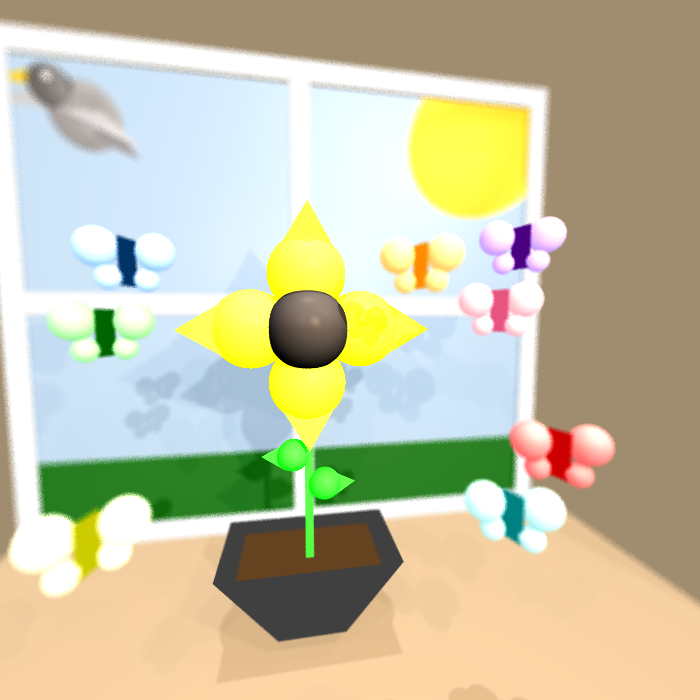
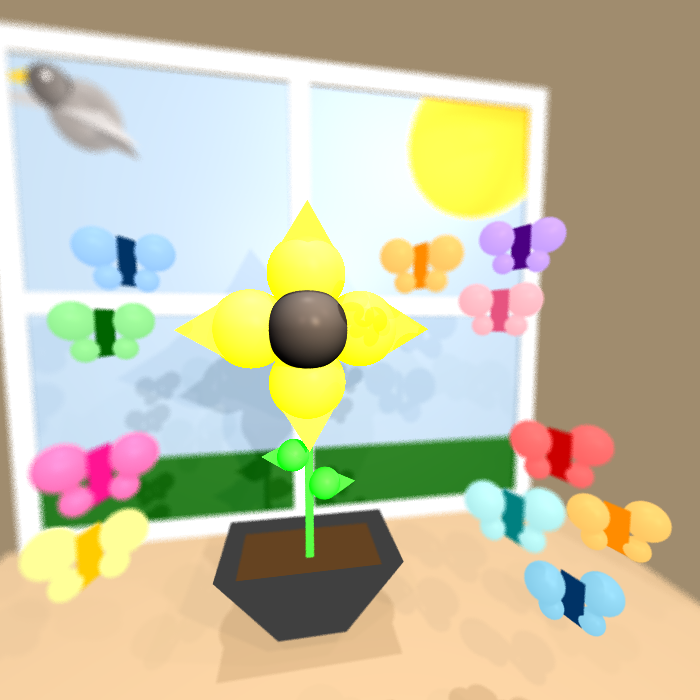
Fixing110

diff --git a/unittests/renderer/Mp2Tests.java b/unittests/renderer/Mp2Tests.java
@@ -405,7 +405,79 @@ class Mp2Tests {
                     .setMaterial(new Material().setKd(0.1).setKs(0.1).setShininess(20)),
             new Sphere( 0.5,new Point(7.3, -8.2, -8))
                     .setEmission(new Color(175, 238, 238))
-                    .setMaterial(new Material().setKd(0.1).setKs(0.1).setShininess(20))
+                    .setMaterial(new Material().setKd(0.1).setKs(0.1).setShininess(20)),
+
+            //The orange  butterfly
+            new Polygon( new Point(13, -7.5, -7),
+                    new Point(12.7, -7.5, -8),
+                    new Point(12.7, -9.5, -8),
+                    new Point(13, -9.5, -7))
+                    .setEmission(new Color(255, 140, 0)),
+            new Sphere( 0.8,new Point(13.8, -8, -7))
+                    .setEmission(new Color(255, 200, 100))
+                    .setMaterial(new Material().setKd(0.1).setKs(0.1).setShininess(20)),
+            new Sphere( 0.8,new Point(11.9, -8, -8))
+                    .setEmission(new Color(255, 200, 100))
+                    .setMaterial(new Material().setKd(0.1).setKs(0.1).setShininess(20)),
+            new Sphere(0.5,new Point(13.4, -9.2, -7))
+                    .setEmission(new Color(255, 200, 100))
+                    .setMaterial(new Material().setKd(0.1).setKs(0.1).setShininess(20)),
+            new Sphere( 0.5,new Point(12.3, -9.2, -8))
+                    .setEmission(new Color(255, 200, 100))
+                    .setMaterial(new Material().setKd(0.1).setKs(0.1).setShininess(20)),
+
+            //The strong pink butterfly
+            new Polygon( new Point(-8, -4, -8),
+                    new Point(-7.7, -4, -9),
+                    new Point(-7.7, -6, -9),
+                    new Point(-8, -6, -8))
+                    .setEmission(new Color(255, 20, 147)),
+            new Sphere( 0.8,new Point(-8.8, -4.5, -8))
+                    .setEmission(new Color(255, 105, 180))
+                    .setMaterial(new Material().setKd(0.2).setKs(0.2).setShininess(20)),
+            new Sphere( 0.8,new Point(-6.9, -4.5, -9))
+                    .setEmission(new Color(255, 105, 180))
+                    .setMaterial(new Material().setKd(0.2).setKs(0.2).setShininess(20)),
+            new Sphere(0.5,new Point(-8.4, -5.7, -8))
+                    .setEmission(new Color(255, 105, 180))
+                    .setMaterial(new Material().setKd(0.2).setKs(0.2).setShininess(20)),
+            new Sphere( 0.5,new Point(-7.3, -5.7, -9))
+                    .setEmission(new Color(255, 105, 180))
+                    .setMaterial(new Material().setKd(0.2).setKs(0.2).setShininess(20)),
+
+            //The light blue  butterfly
+            new Polygon( new Point(11, -10.5, -7),
+                    new Point(10.7, -10.5, -8),
+                    new Point(10.7, -12.5, -8),
+                    new Point(11, -12.5, -7))
+                    .setEmission(new Color(0, 51, 102)),
+            new Sphere( 0.8,new Point(11.8, -11, -7))
+                    .setEmission(new Color(135, 206, 235))
+                    .setMaterial(new Material().setKd(0.1).setKs(0.1).setShininess(20)),
+            new Sphere( 0.8,new Point(9.9, -11, -8))
+                    .setEmission(new Color(135, 206, 235))
+                    .setMaterial(new Material().setKd(0.1).setKs(0.1).setShininess(20)),
+            new Sphere(0.5,new Point(11.4, -12.2, -7))
+                    .setEmission(new Color(135, 206, 235))
+                    .setMaterial(new Material().setKd(0.1).setKs(0.1).setShininess(20)),
+            new Sphere( 0.5,new Point(10.3, -12.2, -8))
+                    .setEmission(new Color(135, 206, 235))
+                    .setMaterial(new Material().setKd(0.1).setKs(0.1).setShininess(20)),
+
+            //The light yellow  butterfly
+            new Polygon( new Point(-8.5, -7, -8),
+                    new Point(-8.2, -7, -9),
+                    new Point(-8.2, -9, -9),
+                    new Point(-8.5, -9, -8))
+                    .setEmission(new Color(255, 204, 0)),
+            new Sphere( 0.8,new Point(-9.3, -7.5, -8))
+                    .setEmission(new Color(255, 255, 153)),
+            new Sphere( 0.8,new Point(-7.4, -7.5, -9))
+                    .setEmission(new Color(255, 255, 153)),
+            new Sphere(0.5,new Point(-8.9, -8.7, -8))
+                    .setEmission(new Color(255, 255, 153)),
+            new Sphere( 0.5,new Point(-7.8, -8.7, -9))
+                    .setEmission(new Color(255, 255, 153))
     );
 
     /**The light sources of the scene
@@ -437,7 +509,7 @@ class Mp2Tests {
      * It uses BVH for optimization.
      */
     @Test
-    void test1(){//Time: 40 sec 586 ms
+    void test1(){//Time: 51 sec 536 ms
         // Create a camera with a specific location and direction
         Camera cam1 = Camera.getBuilder()
                 .setLocation(new Point(-1, 0.5, 5))
@@ -462,7 +534,7 @@ class Mp2Tests {
      * It uses BVH for optimization.
      */
     @Test
-    void test2(){//Time: 2 min 55 sec
+    void test2(){//Time: 3 min 38 sec
         // Create a camera with a specific location and direction
         Camera cam1 = Camera.getBuilder()
                 .setLocation(new Point(-1, 0.5, 5))
@@ -485,7 +557,7 @@ class Mp2Tests {
      * It doesn't use BVH for optimization.
      */
     @Test
-    void test3(){//Time: 1 min 5 sec
+    void test3(){//Time: 1 min 52 sec
         // Create a camera with a specific location and direction
         Camera cam1 = Camera.getBuilder()
                 .setLocation(new Point(-1, 0.5, 5))
@@ -508,7 +580,7 @@ class Mp2Tests {
      * It doesn't use BVH for optimization.
      */
     @Test
-    void test4(){//Time: 4 min 51 sec
+    void test4(){//Time: 7 min 5 sec
         // Create a camera with a specific location and direction
         Camera cam1 = Camera.getBuilder()
                 .setLocation(new Point(-1, 0.5, 5))
@@ -535,7 +607,7 @@ class Mp2Tests {
      * This test is designed to showcase the camera's ability to capture a scene with depth of field effects.
      */
     @Test
-    void test5(){//Time: 22 sec 932 ms
+    void test5(){//Time: 30 sec 516 ms
         // Create a camera with a specific location and direction
         Camera cam1 = Camera.getBuilder()
                 .setLocation(new Point(0, 13, -10))
